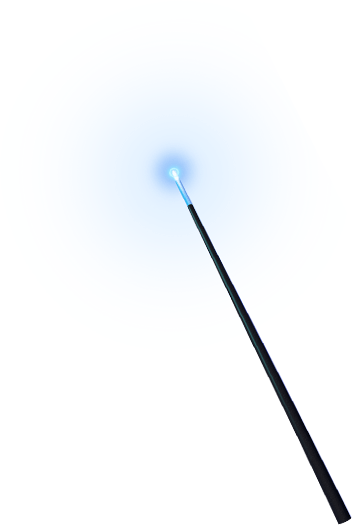
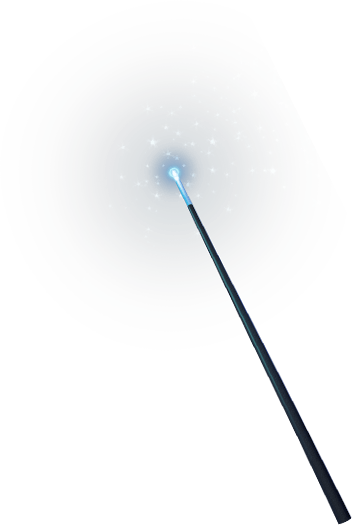
add

Changed region(s): [[0.3438, 0.2133, 0.6562, 0.4571], [0.6562, 0.5486, 0.8125, 0.7619], [0.5938, 0.4571, 0.6562, 0.5486]]

diff --git a/web_root/H5/scene1.js b/web_root/H5/scene1.js
@@ -1,6 +1,12 @@
+function tickScene1Frame(e) {
+    scene.tick(e);
+}
+let scene;
 class Scene1 extends Scene {
     constructor(app) {
         super(app);
+        this.particleYOffset = 130;
+        scene = this;
         Util.addImage(app.stage, app.preLoader.getResult('bg-1'), 0, 0, -50);
         this.wand = Util.addImage(app.stage, app.preLoader.getResult('wand'), 1, 350, 80);
         Util.breath(this.wand, 10);
@@ -11,23 +17,25 @@ class Scene1 extends Scene {
         clickTip.y = 810;
         app.stage.addChild(clickTip);
         clickTip.pulsate();
-        clickTip.addEventListener('click', () => {
+        clickTip.on('click', () => {
             Util.unBreath(this.wand);
             this.clickBox();
-        });
+            this.particleSystem.emitFrequency = 100;
+            this.particleYOffset = -100;
+        }, this, true);
         this.particleSystem = new particlejs.ParticleSystem();
         this.stage.addChild(this.particleSystem.container);
         this.particleSystem.importFromJson({
             "bgColor": "#00000",
             "width": 679,
             "height": 343,
-            "emitFrequency": 80,
+            "emitFrequency": 30,
             "startX": 340,
             "startXVariance": 169,
             "startY": 147,
             "startYVariance": 179,
             "initialDirection": 348,
-            "initialDirectionVariance": "0",
+            "initialDirectionVariance": 112,
             "initialSpeed": 1.2,
             "initialSpeedVariance": 2.2,
             "friction": "0",
@@ -37,7 +45,7 @@ class Scene1 extends Scene {
             "startScaleVariance": 0.33,
             "finishScale": 0.04,
             "finishScaleVariance": "0.23",
-            "lifeSpan": "27",
+            "lifeSpan": 50,
             "lifeSpanVariance": "93",
             "startAlpha": "1",
             "startAlphaVariance": "0",
@@ -59,31 +67,43 @@ class Scene1 extends Scene {
             "alphaCurveType": "0",
             "VERSION": "0.1.3"
         });
-        createjs.Ticker.addEventListener('tick', (e) => this.tick(e));
+        createjs.Ticker.addEventListener('tick', tickScene1Frame);
     }
     clickBox() {
-        Tween.get(this.wand).to({ rotation: -68, y: 800, x: 180 }, 1500, createjs.Ease.sineIn).wait(300).call(() => {
+        Tween.get(this.wand).to({ rotation: -68, y: 800, x: 180 }, 1500, createjs.Ease.sineIn).wait(100).call(() => {
             Tween.removeTweens(this.wand);
-            this.stage.removeChild(this.wand);
             createjs.Sound.play('sound_sparkle');
+            this.particleSystem.initialDirection = 0;
+            this.particleSystem.initialDirectionVariance = 360;
+            this.particleSystem.initialSpeed = 20;
+            this.particleSystem.initialSpeedVariance = 0;
+            this.particleSystem.lifeSpan = 80;
+            this.particleSystem.emitFrequency = 250;
+            //this.particleYOffset = -100;
             setTimeout(() => {
-                this.openBox();
-            }, 200);
+                this.particleSystem.emitFrequency = 0;
+                setTimeout(() => {
+                    this.stage.removeChild(this.wand);
+                    this.openBox();
+                }, 1500);
+            }, 500);
         });
     }
     openBox() {
         let light = Util.addImage(this.stage, this.app.preLoader.getResult('light'), 2, 0, -50);
         light.alpha = 0;
-        Tween.get(light).to({ alpha: 1 }, 3300, createjs.Ease.sineIn);
+        Tween.get(light).to({ alpha: 1 }, 3600, createjs.Ease.sineIn);
         this.dispose();
         new Scene2(this.app);
     }
     tick(e) {
-        this.particleSystem.startX = this.wand.x + 180;
-        this.particleSystem.startY = this.wand.y + 120;
+        //console.log('emit');
+        this.particleSystem.startX = this.wand.x + 160;
+        this.particleSystem.startY = this.wand.y + this.particleYOffset;
         this.particleSystem.update();
     }
     dispose() {
+        createjs.Ticker.removeEventListener('tick', tickScene1Frame);
         this.particleSystem.dispose();
     }
 }

diff --git a/web_root/H5/index.html b/web_root/H5/index.html
@@ -23,5 +23,6 @@ html, body, div, span, canvas { margin: 0; padding: 0; box-sizing: border-box; }
 <script src="util/clickTip.js"></script>
 <script src="index.js"></script>
 <script src="scene1.js"></script>
+<script src="scene2.js"></script>
 </body>
 </html>

diff --git a/web_root/H5/util/wand.js b/web_root/H5/util/wand.js
@@ -1,0 +1,13 @@
+var Bitmap = createjs.Bitmap;
+class wand extends Bitmap {
+    constructor(imageOrUrl) {
+        super(imageOrUrl);
+    }
+    breath() {
+    }
+    unBreath() {
+    }
+    dispose() {
+    }
+}
+//# sourceMappingURL=/util/wand.js.map

diff --git a/web_root/H5/scene2.js b/web_root/H5/scene2.js
@@ -1,6 +1,7 @@
 class Scene2 extends Scene {
     constructor(app) {
         super(app);
+        //this.openBox();
     }
 }
 //# sourceMappingURL=/scene2.js.map
